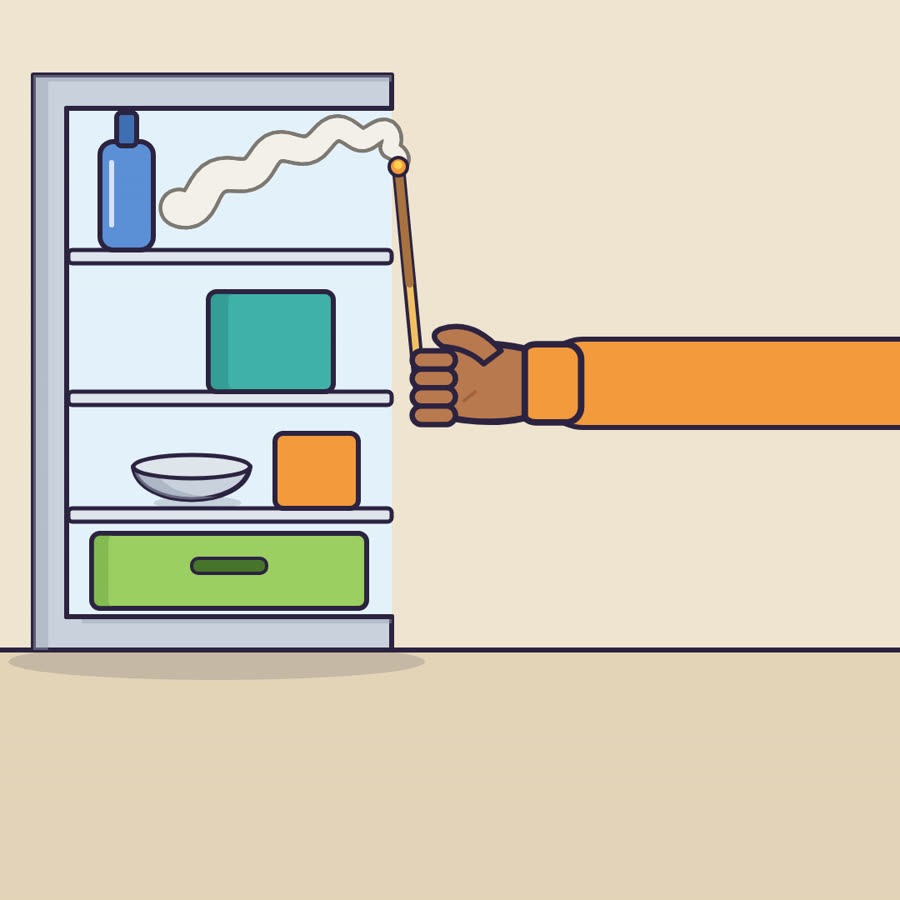
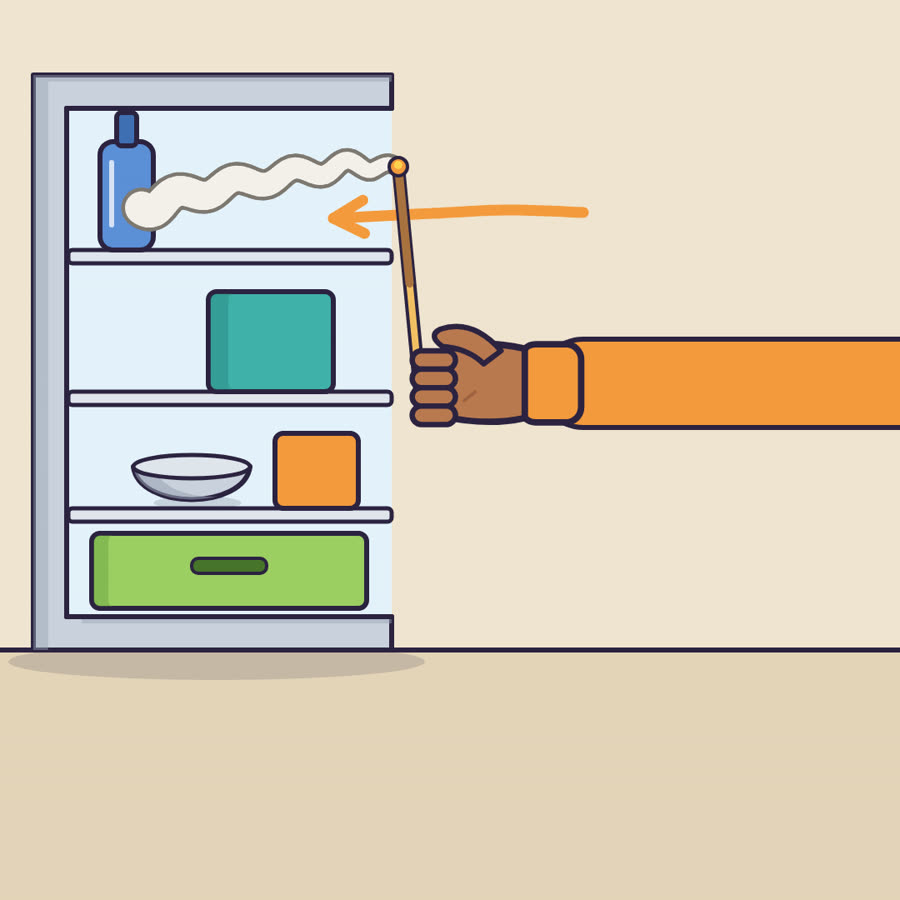
Science: more pictures and drawings for the new units
Claude-Session: https://claude.ai/code/session_01JToV3XHh1vEGaLuTjTUjQr

Changed region(s): [[0.1244, 0.1244, 0.6533, 0.28]]

diff --git a/app/build/drawings/su_weatherWindAndAir.ts b/app/build/drawings/su_weatherWindAndAir.ts
@@ -125,6 +125,8 @@ const e1_0 = (c: Ctx) => {
 // setup.e1.1
 const e1_1 = (c: Ctx) => {
   ground(c); floorBand(c, FLOOR); fridgeSide(c);
+  curveArrow(c, [[500, 560], [610, 590], [730, 650], [850, 735]], COL.blue, 13);
+  curveArrow(c, [[500, 640], [590, 660], [690, 710], [790, 760]], COL.blue, 13);
   smoke(c, [[478, 640], [500, 612], [560, 628], [620, 685], [665, 748], [730, 776], [850, 772], [960, 770]], 30, 9);
   agarbatti(c, 505, 925, 478, 640);
   arm(c, 700, 915, 1090, 915, 100);
@@ -133,7 +135,8 @@ const e1_1 = (c: Ctx) => {
 // setup.e1.2
 const e1_2 = (c: Ctx) => {
   ground(c); floorBand(c, FLOOR); fridgeSide(c);
-  smoke(c, [[478, 200], [470, 168], [420, 160], [350, 178], [280, 210], [215, 250]], 30, 8);
+  curveArrow(c, [[700, 255], [610, 252], [520, 256], [400, 262]], COL.orange, 13);
+  smoke(c, [[478, 200], [430, 198], [370, 206], [300, 218], [230, 232], [170, 250]], 30, 7);
   agarbatti(c, 505, 480, 478, 200);
   arm(c, 700, 460, 1090, 460, 100);
   handL(c, 596, 460, 1.3);
@@ -177,6 +180,9 @@ const e2_2 = (c: Ctx) => {
   c.restore();
   for (const y of [395, 466, 537]) curveArrow(c, [[258, y], [290, y - 10], [320, y + 8], [352, y]], COL.blue, 11);
   windmill(c, 640, 640, 0.85, 60, true);
+  // the pinwheel stands over the 50 cm mark: a guide down to the tape and a span from the fan
+  for (let y = 580; y < 880; y += 30) line(c, [[423, y], [423, y + 16]], 6, RED);
+  arrow(c, [[175, 840], [415, 840]], RED, 10);
   // the clip has risen: an arrow up beside the thread
   curveArrow(c, [[900, 600], [900, 540], [900, 470]], RED, 12);
   // the tape on the floor: 0 under the fan, marks at 50 cm and 150 cm
@@ -224,7 +230,7 @@ const e3_1 = (c: Ctx) => {
   // the pushing hand from the left
   arm(c, -20, 450, 360, 450, 100);
   hand(c, 440, 450, 0, 1.4);
-  curveArrow(c, [[660, 320], [660, 430], [660, 560]], RED, 14);
+  arrow(c, [[610, 450], [610, 640]], RED, 14);
   // the shading hand above, from the right
   arm(c, 740, 120, 1100, 120, 100);
   handL(c, 640, 120, 1.4, true);
@@ -238,7 +244,13 @@ const e3_2 = (c: Ctx) => {
   shape(c, () => ell(c, 540, 290, 140, 140), WHITE, 8);
   shade(c, () => ell(c, 540, 290, 140, 140), COL.grey, 22, 22, 0.3);
   shape(c, () => ell(c, 540, 290, 140, 140), "rgba(0,0,0,0)", 8);
-  line(c, [[540, 290], [540, 190]], 11); line(c, [[540, 290], [610, 330]], 14);
+  c.beginPath(); c.moveTo(540, 290); c.arc(540, 290, 120, -Math.PI / 2, 0); c.closePath(); c.fillStyle = "rgba(215,55,43,0.35)"; c.fill();
+  curveArrow(c, [[560, 130], [620, 140], [670, 180], [690, 240]], RED, 12);
+  line(c, [[540, 290], [540, 190]], 11); line(c, [[540, 290], [650, 290]], 14);
+  // a window on the wall: grey sky, no sun
+  shape(c, () => rrect(c, 770, 110, 230, 290, 10), "#b4bec6", 8);
+  line(c, [[885, 110], [885, 400]], 10, WHITE); line(c, [[770, 255], [1000, 255]], 10, WHITE);
+  shape(c, () => rrect(c, 770, 110, 230, 290, 10), "rgba(0,0,0,0)", 8);
   shape(c, () => ell(c, 540, 290, 13, 13), RED, 4);
   // the table
   tableSlab(c, 70, 1010, 780, [140, 896], 1050);

diff --git a/app/build/drawings/su_weatherWeather.ts b/app/build/drawings/su_weatherWeather.ts
@@ -175,19 +175,19 @@ const e2_0 = (c: Ctx) => {
 const e2_1 = (c: Ctx) => {
   bathroom(c);
   dabba(c, 250, 1010, 160, 250);
-  tumbler(c, 600, 1010, 72, 320);
+  tumbler(c, 600, 1010, 72, 280);
   chalni(c, 430, 560, 340, 56, 90);
   // rain through the mesh, only over the two containers
-  for (const [x0, x1, yEnd] of [[140, 360, 740], [560, 640, 670]] as number[][])
-    for (let x = x0; x <= x1; x += 44) for (const dy of [0, 55]) { const y0 = 620 + dy + ((x * 7) % 25); if (y0 + 40 < yEnd) { line(c, [[x, y0], [x, y0 + 40]], 14, INK); line(c, [[x, y0], [x, y0 + 40]], 7, COL.water); } }
-  mug(c, 470, 330, 150, 170, -1.3, false);
+  for (const [x0, x1, yEnd] of [[140, 360, 745], [540, 660, 705]] as number[][])
+    for (let x = x0; x <= x1; x += 40) for (const dy of [0, 55]) { const y0 = 620 + dy + ((x * 7) % 25); if (y0 + 40 < yEnd) { line(c, [[x, y0], [x, y0 + 40]], 14, INK); line(c, [[x, y0], [x, y0 + 40]], 7, COL.water); } }
+  mug(c, 530, 330, 150, 170, -1.3, false);
   // the pouring stream
-  const st = () => { c.beginPath(); c.moveTo(372, 370); c.bezierCurveTo(372, 430, 368, 480, 366, 535); };
+  const st = () => { c.beginPath(); c.moveTo(432, 370); c.bezierCurveTo(432, 430, 428, 480, 426, 535); };
   st(); c.strokeStyle = INK; c.lineWidth = 36; c.lineCap = "round"; c.stroke(); st(); c.strokeStyle = COL.water; c.lineWidth = 24; c.stroke();
-  shape(c, () => ell(c, 366, 548, 46, 12), COL.drop, 4);
-  handFlip(c, 516, 128, 1.75, 1.5);
+  shape(c, () => ell(c, 426, 548, 46, 12), COL.drop, 4);
+  handFlip(c, 576, 128, 1.75, 1.5);
   handFlip(c, 940, 560, Math.PI, 1.5);
-  arrow(c, [[285, 390], [275, 440], [285, 495]]);
+  arrow(c, [[345, 390], [335, 440], [345, 495]]);
 };
 // setup.e2.2
 const e2_2 = (c: Ctx) => {
